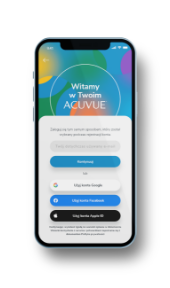
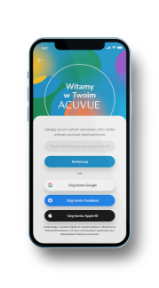
poprawki

diff --git a/src/pages/nowa-aplikacja.html b/src/pages/nowa-aplikacja.html
@@ -11,20 +11,20 @@ subject: Jak skutecznie wykorzystać aplikację Twoje ACUVUE<sup>&reg;</sup> do 
     <spacer size="16"></spacer>
     <row>
         <columns large="6">
-            <h1 class="text-secondary fw-bold fs-1 mb-0">Twoje ACUVUE<sup>&reg;</sup> w nowej odsłonie!</h1>
+            <h1 class="text-secondary fw-bold fs-1 mb-0" style="line-height: 1.1;">Twoje ACUVUE<sup>&reg;</sup> w nowej odsłonie!</h1>
             <h3 class="fw-bold text-primary text-gray">Jeszcze więcej korzyści!</h3>
             <p class="text-secondary">Zmieniliśmy wygląd aplikacji Twoje ACUVUE<sup>&reg;</sup> i dodaliśmy nowe praktyczne funkcjonalności.<sup>&nbsp</sup></p>
         </columns>
-        <columns large="6">
-            <img src="/assets/img/nowa-aplikacja/pulpit-etap3a-flat.png" alt="pulpit" width="203" height="213">
+        <columns large="6" valign="middle">
+            <center><img src="/assets/img/nowa-aplikacja/pulpit-etap3a-flat.png" alt="pulpit" width="203" height="213"></center>
         </columns>
     </row>
     <row>
         <columns large="6">
-            <img src="/assets/img/nowa-aplikacja/app-store.png" alt="Pobierz w App Store" width="221" height="74">
+            <center><a href="https://apps.apple.com/pl/app/twoje-acuvue/id1222917090"><img src="/assets/img/nowa-aplikacja/app-store.png" alt="Pobierz w App Store" class="float-center" width="221" height="74"></a></center>
         </columns>
         <columns large="6">
-            <img src="/assets/img/nowa-aplikacja/google-play.png" alt="Pobierz z Google Play" width="249" height="74">
+            <center><a href="https://play.google.com/store/apps/details?id=pl.adhdinteractive.app"><img src="/assets/img/nowa-aplikacja/google-play.png" alt="Pobierz z Google Play" class="float-center" width="249" height="74"></a></center>
         </columns>
     </row>
     <spacer size="32"></spacer>
@@ -42,7 +42,7 @@ subject: Jak skutecznie wykorzystać aplikację Twoje ACUVUE<sup>&reg;</sup> do 
                             <tr>
                                 <td>
                                     <center>
-                                        <img src="/assets/img/nowa-aplikacja/img-log-1.png" alt="Ekran 1" width="160" height="270">
+                                        <img src="/assets/img/nowa-aplikacja/img-log-1.png" alt="Ekran 1" width="159" height="288">
                                     </center>
                                 </td>
                             </tr>
@@ -76,7 +76,7 @@ subject: Jak skutecznie wykorzystać aplikację Twoje ACUVUE<sup>&reg;</sup> do 
                             <tr>
                                 <td>
                                     <center>
-                                        <img src="/assets/img/nowa-aplikacja/img-log-2.png" alt="Ekran 2" width="160" height="270">
+                                        <img src="/assets/img/nowa-aplikacja/img-log-2.png" alt="Ekran 2" width="159" height="288">
                                     </center>
                                 </td>
                             </tr>
@@ -110,7 +110,7 @@ subject: Jak skutecznie wykorzystać aplikację Twoje ACUVUE<sup>&reg;</sup> do 
                             <tr>
                                 <td>
                                     <center>
-                                        <img src="/assets/img/nowa-aplikacja/img-log-3.png" alt="Ekran 3" width="160" height="270">
+                                        <img src="/assets/img/nowa-aplikacja/img-log-3.png" alt="Ekran 3" width="159" height="288">
                                     </center>
                                 </td>
                             </tr>
@@ -160,7 +160,7 @@ subject: Jak skutecznie wykorzystać aplikację Twoje ACUVUE<sup>&reg;</sup> do 
     </row>
     <row>
         <columns large="6">
-            <img src="/assets/img/nowa-aplikacja/pulpit-etap3a-flat-scrolled.png" alt="pulpit">
+            <center><img src="/assets/img/nowa-aplikacja/pulpit-etap3a-flat-scrolled.png" alt="pulpit"></center>
         </columns>
         <columns large="6">
             <table>
@@ -211,25 +211,20 @@ subject: Jak skutecznie wykorzystać aplikację Twoje ACUVUE<sup>&reg;</sup> do 
     </row>
     <row>
         <columns large="6">
-            <img src="/assets/img/nowa-aplikacja/app-store.png" alt="Pobierz w App Store" width="221" height="74">
+            <center><a href="https://apps.apple.com/pl/app/twoje-acuvue/id1222917090"><img src="/assets/img/nowa-aplikacja/app-store.png" alt="Pobierz w App Store" class="float-center" width="221" height="74"></a></center>
         </columns>
         <columns large="6">
-            <img src="/assets/img/nowa-aplikacja/google-play.png" alt="Pobierz z Google Play" width="249" height="74">
+            <center><a href="https://play.google.com/store/apps/details?id=pl.adhdinteractive.app"><img src="/assets/img/nowa-aplikacja/google-play.png" alt="Pobierz z Google Play" class="float-center" width="249" height="74"></a></center>
         </columns>
     </row>
 
 
     <spacer size="16"></spacer>
+</container>
+<container class="white">
     <row class="collapse">
         <columns small="12">
             <img src="/assets/img/container--bottom.jpg" alt="---" width="630" height="16">
-
-        </columns>
-    </row>
-</container>
-<container class="white">
-    <row>
-        <columns>
             <spacer size="32"></spacer>
             <center>
                 <a href="#" target="_blank"><img src="/assets/img/jnj-logo.png" alt="Johnson & Johnson VISION" width="204" height="27" class="float-center"></a>

diff --git a/src/assets/scss/_settings.scss b/src/assets/scss/_settings.scss
@@ -29,7 +29,7 @@ $white: #ffffff;
 $pre-color: #ff6908;
 $global-width: 630px;
 $global-width-small: 95%;
-$global-gutter: 64px;
+$global-gutter: 32px;
 $body-background: $white;
 $container-background: $light-gray;
 $global-padding: 16px;
